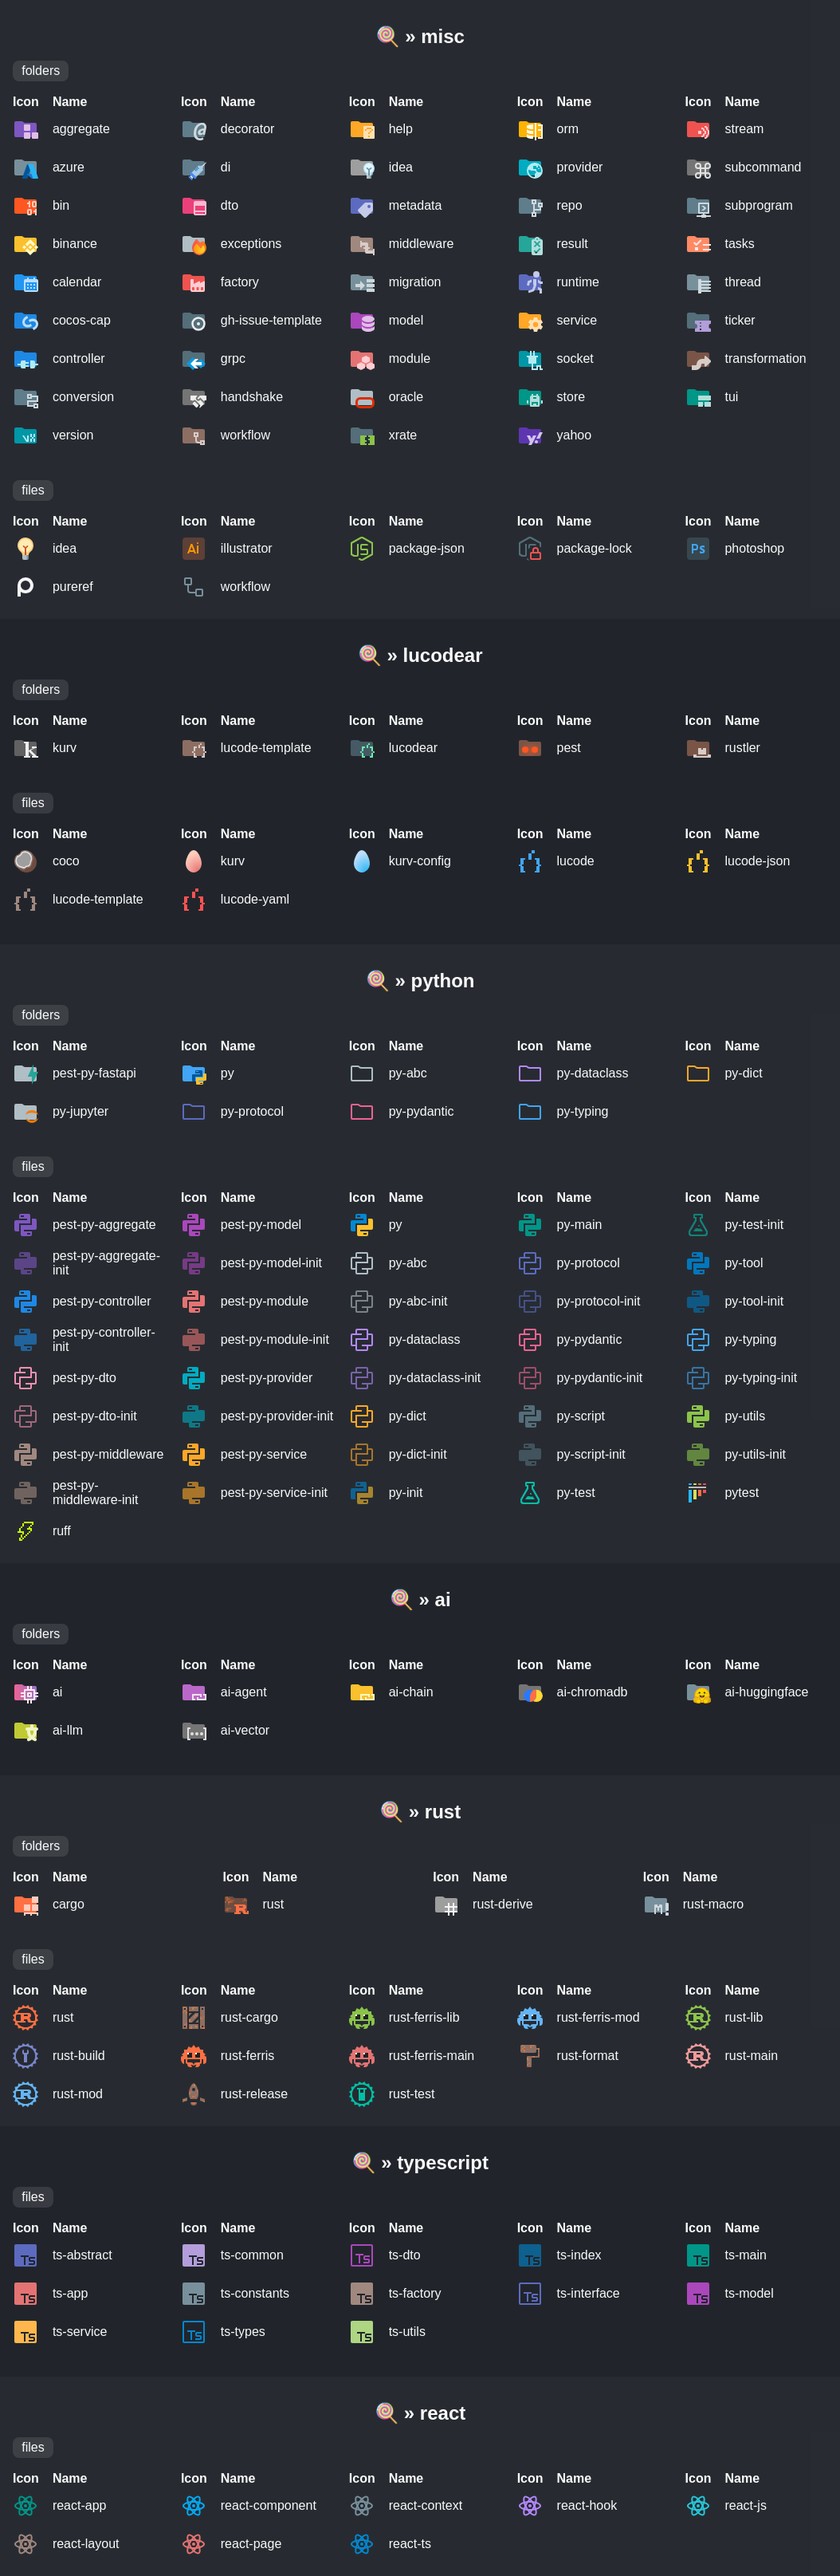
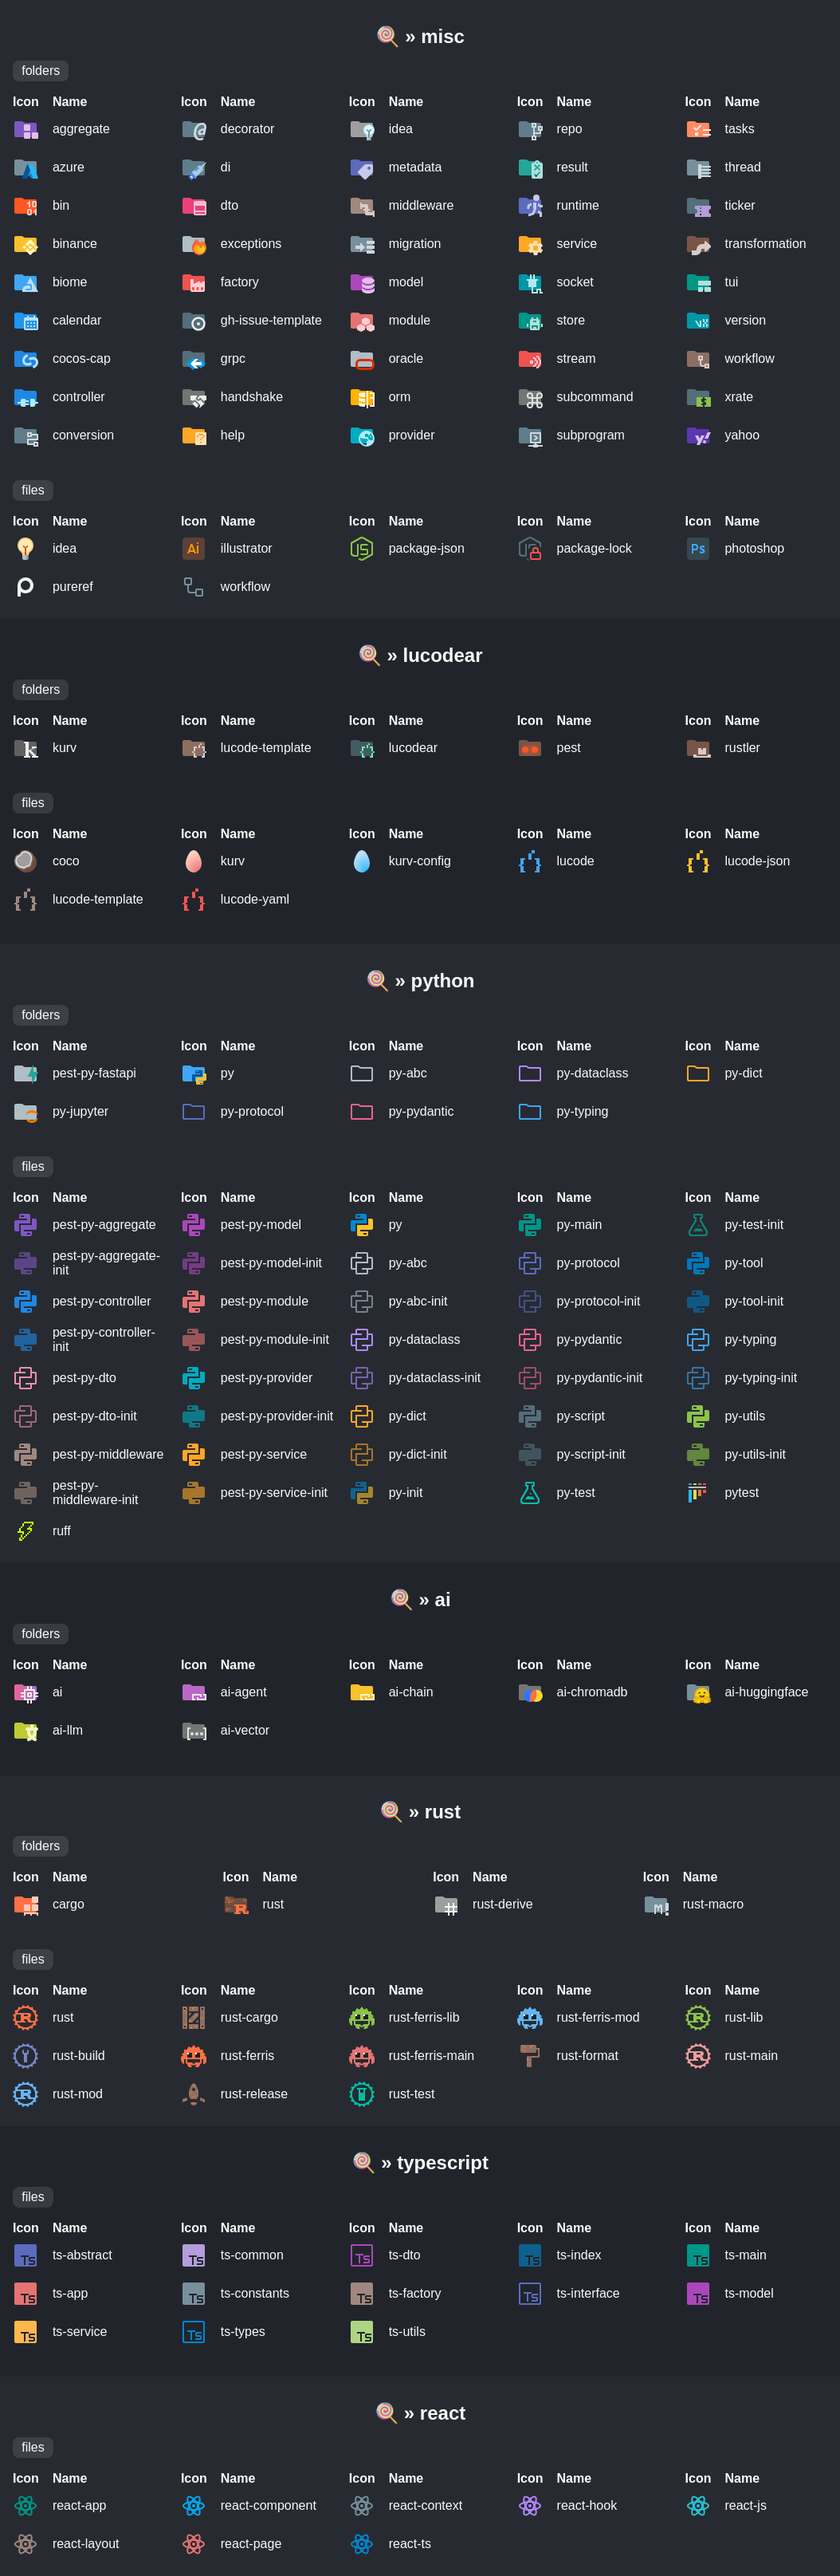
release: 🔖 v0.59.0

diff --git a/CHANGELOG.md b/CHANGELOG.md
@@ -3,10 +3,18 @@
  All notable changes to this project will be documented in this file. Dates are displayed in UTC.
 
  
+#### [v0.59.0](https://github.com/lucodear/lucodear-icons/compare/v0.58.0...v0.59.0) 
+
+> July 13, 2024 
+
+- feat: ✨ biome folder [`856d5a1f`](https://github.com/lucodear/lucodear-icons/commit/856d5a1f)
+- ci: 🔄 update icon review action [`77c58e59`](https://github.com/lucodear/lucodear-icons/commit/77c58e59)
+ 
 #### [v0.58.0](https://github.com/lucodear/lucodear-icons/compare/v0.57.0...v0.58.0) 
 
 > July 10, 2024 
 
+- release: 🔖 v0.58.0 [`b01f8aeb`](https://github.com/lucodear/lucodear-icons/commit/b01f8aeb)
 - ci: 🔄 update icon review action [`0fa1c9b0`](https://github.com/lucodear/lucodear-icons/commit/0fa1c9b0)
 - Fixed all .md files to conform to markdownlint rules [`#2398`](https://github.com/lucodear/lucodear-icons/pull/2398)
 - Added markdownlint to list of reccomended extensions [`#2400`](https://github.com/lucodear/lucodear-icons/pull/2400)
